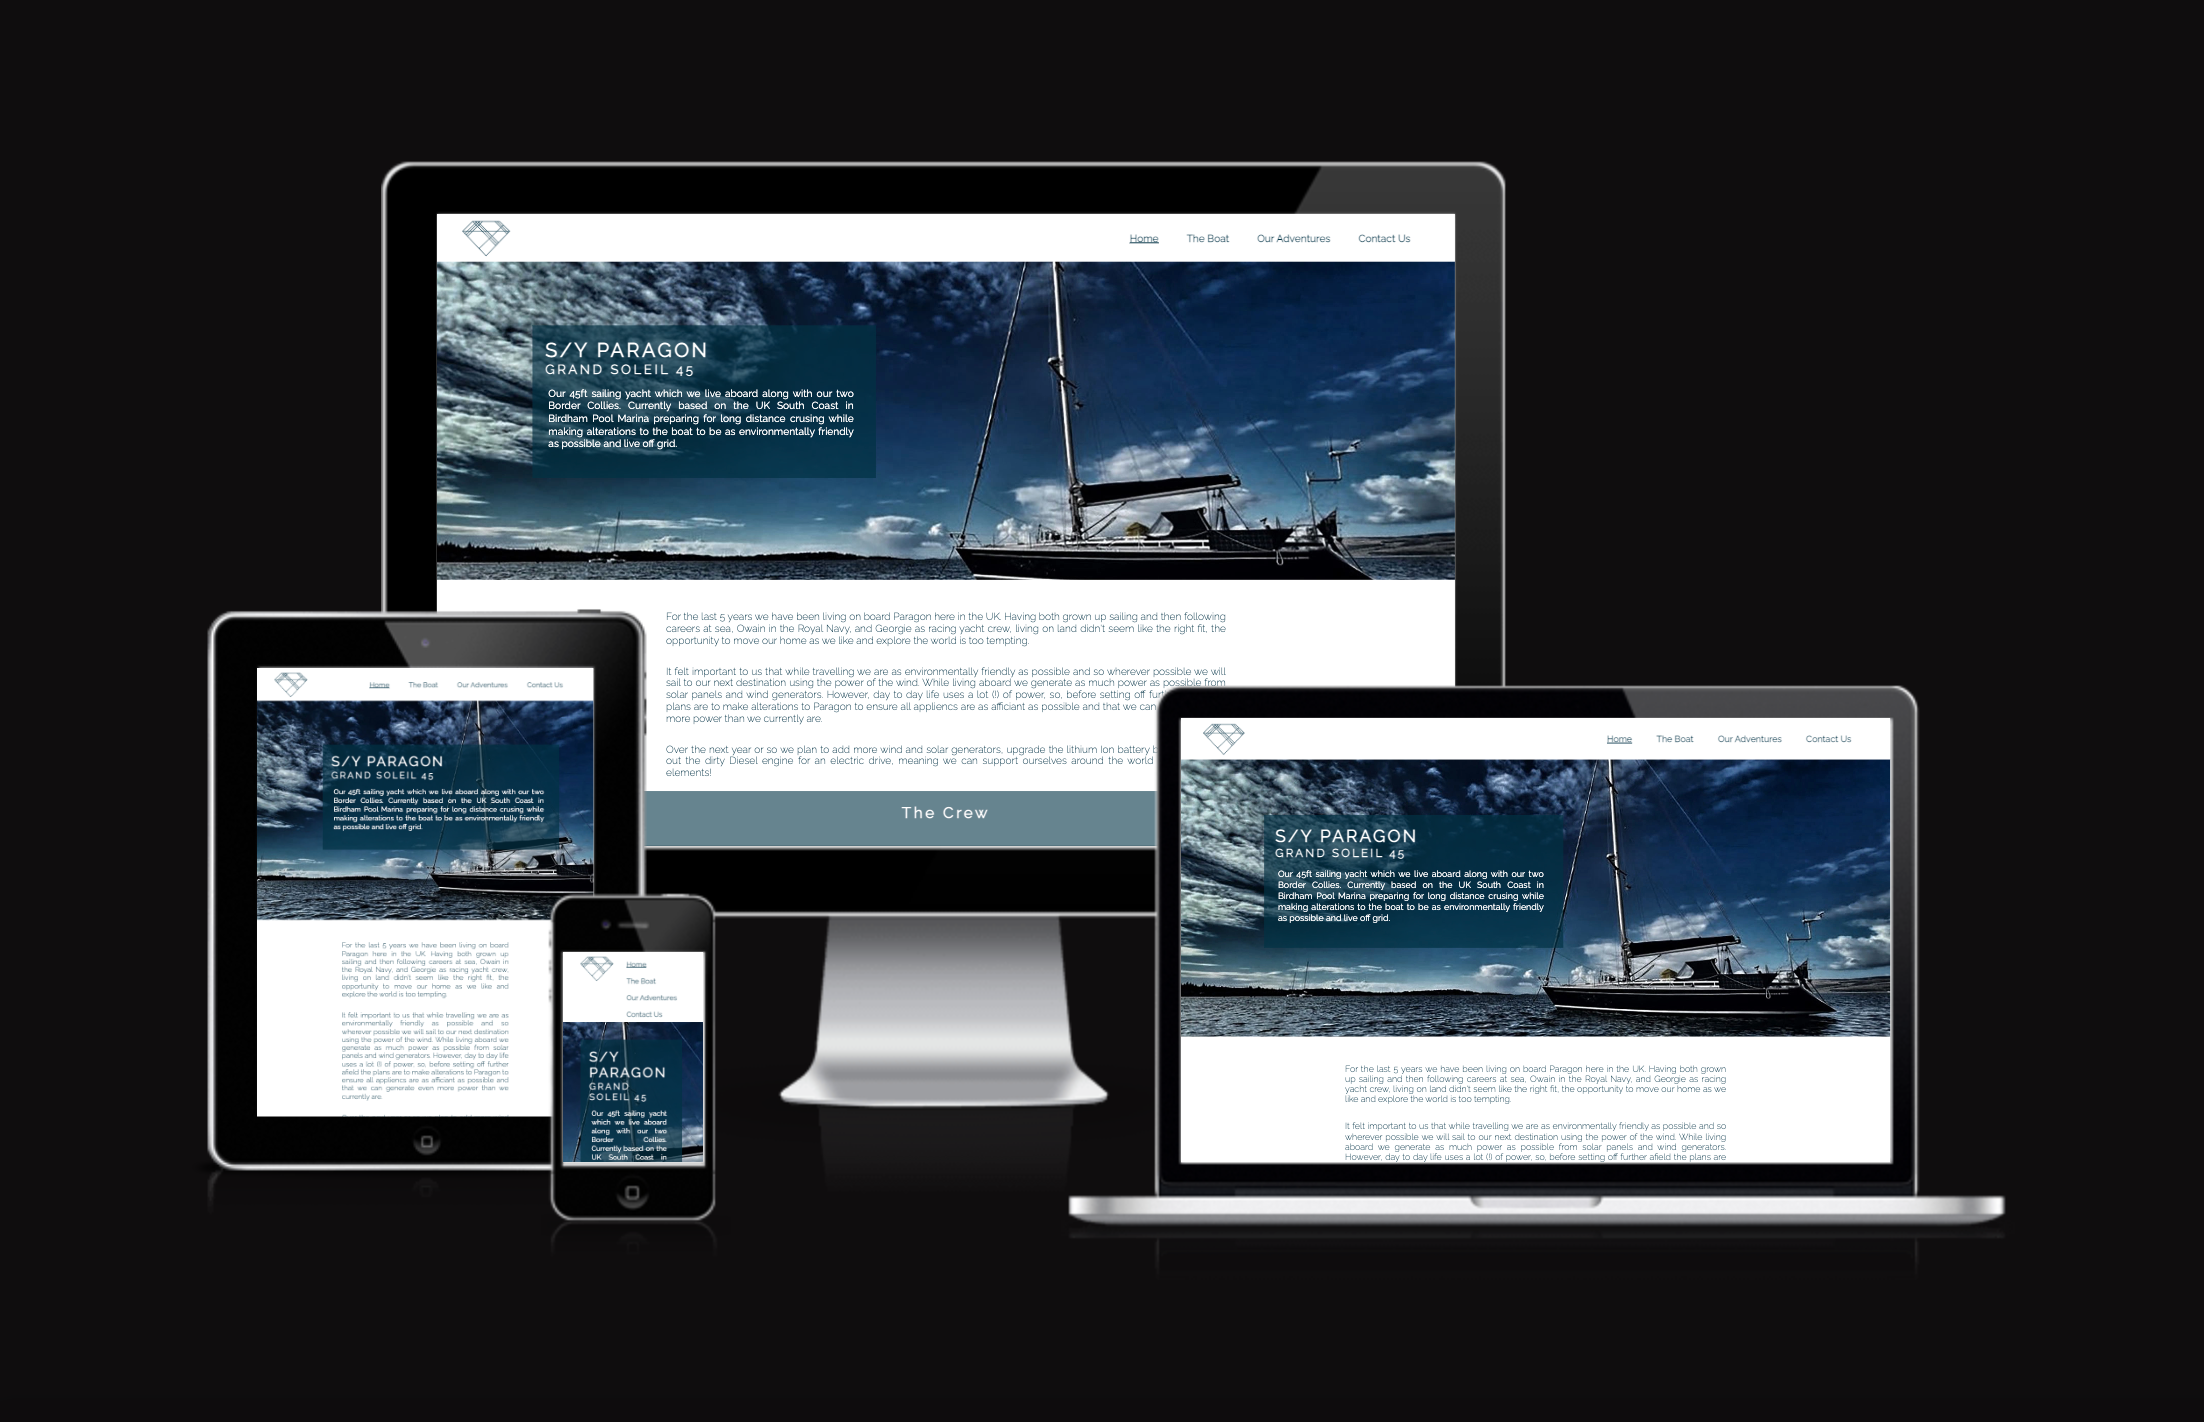
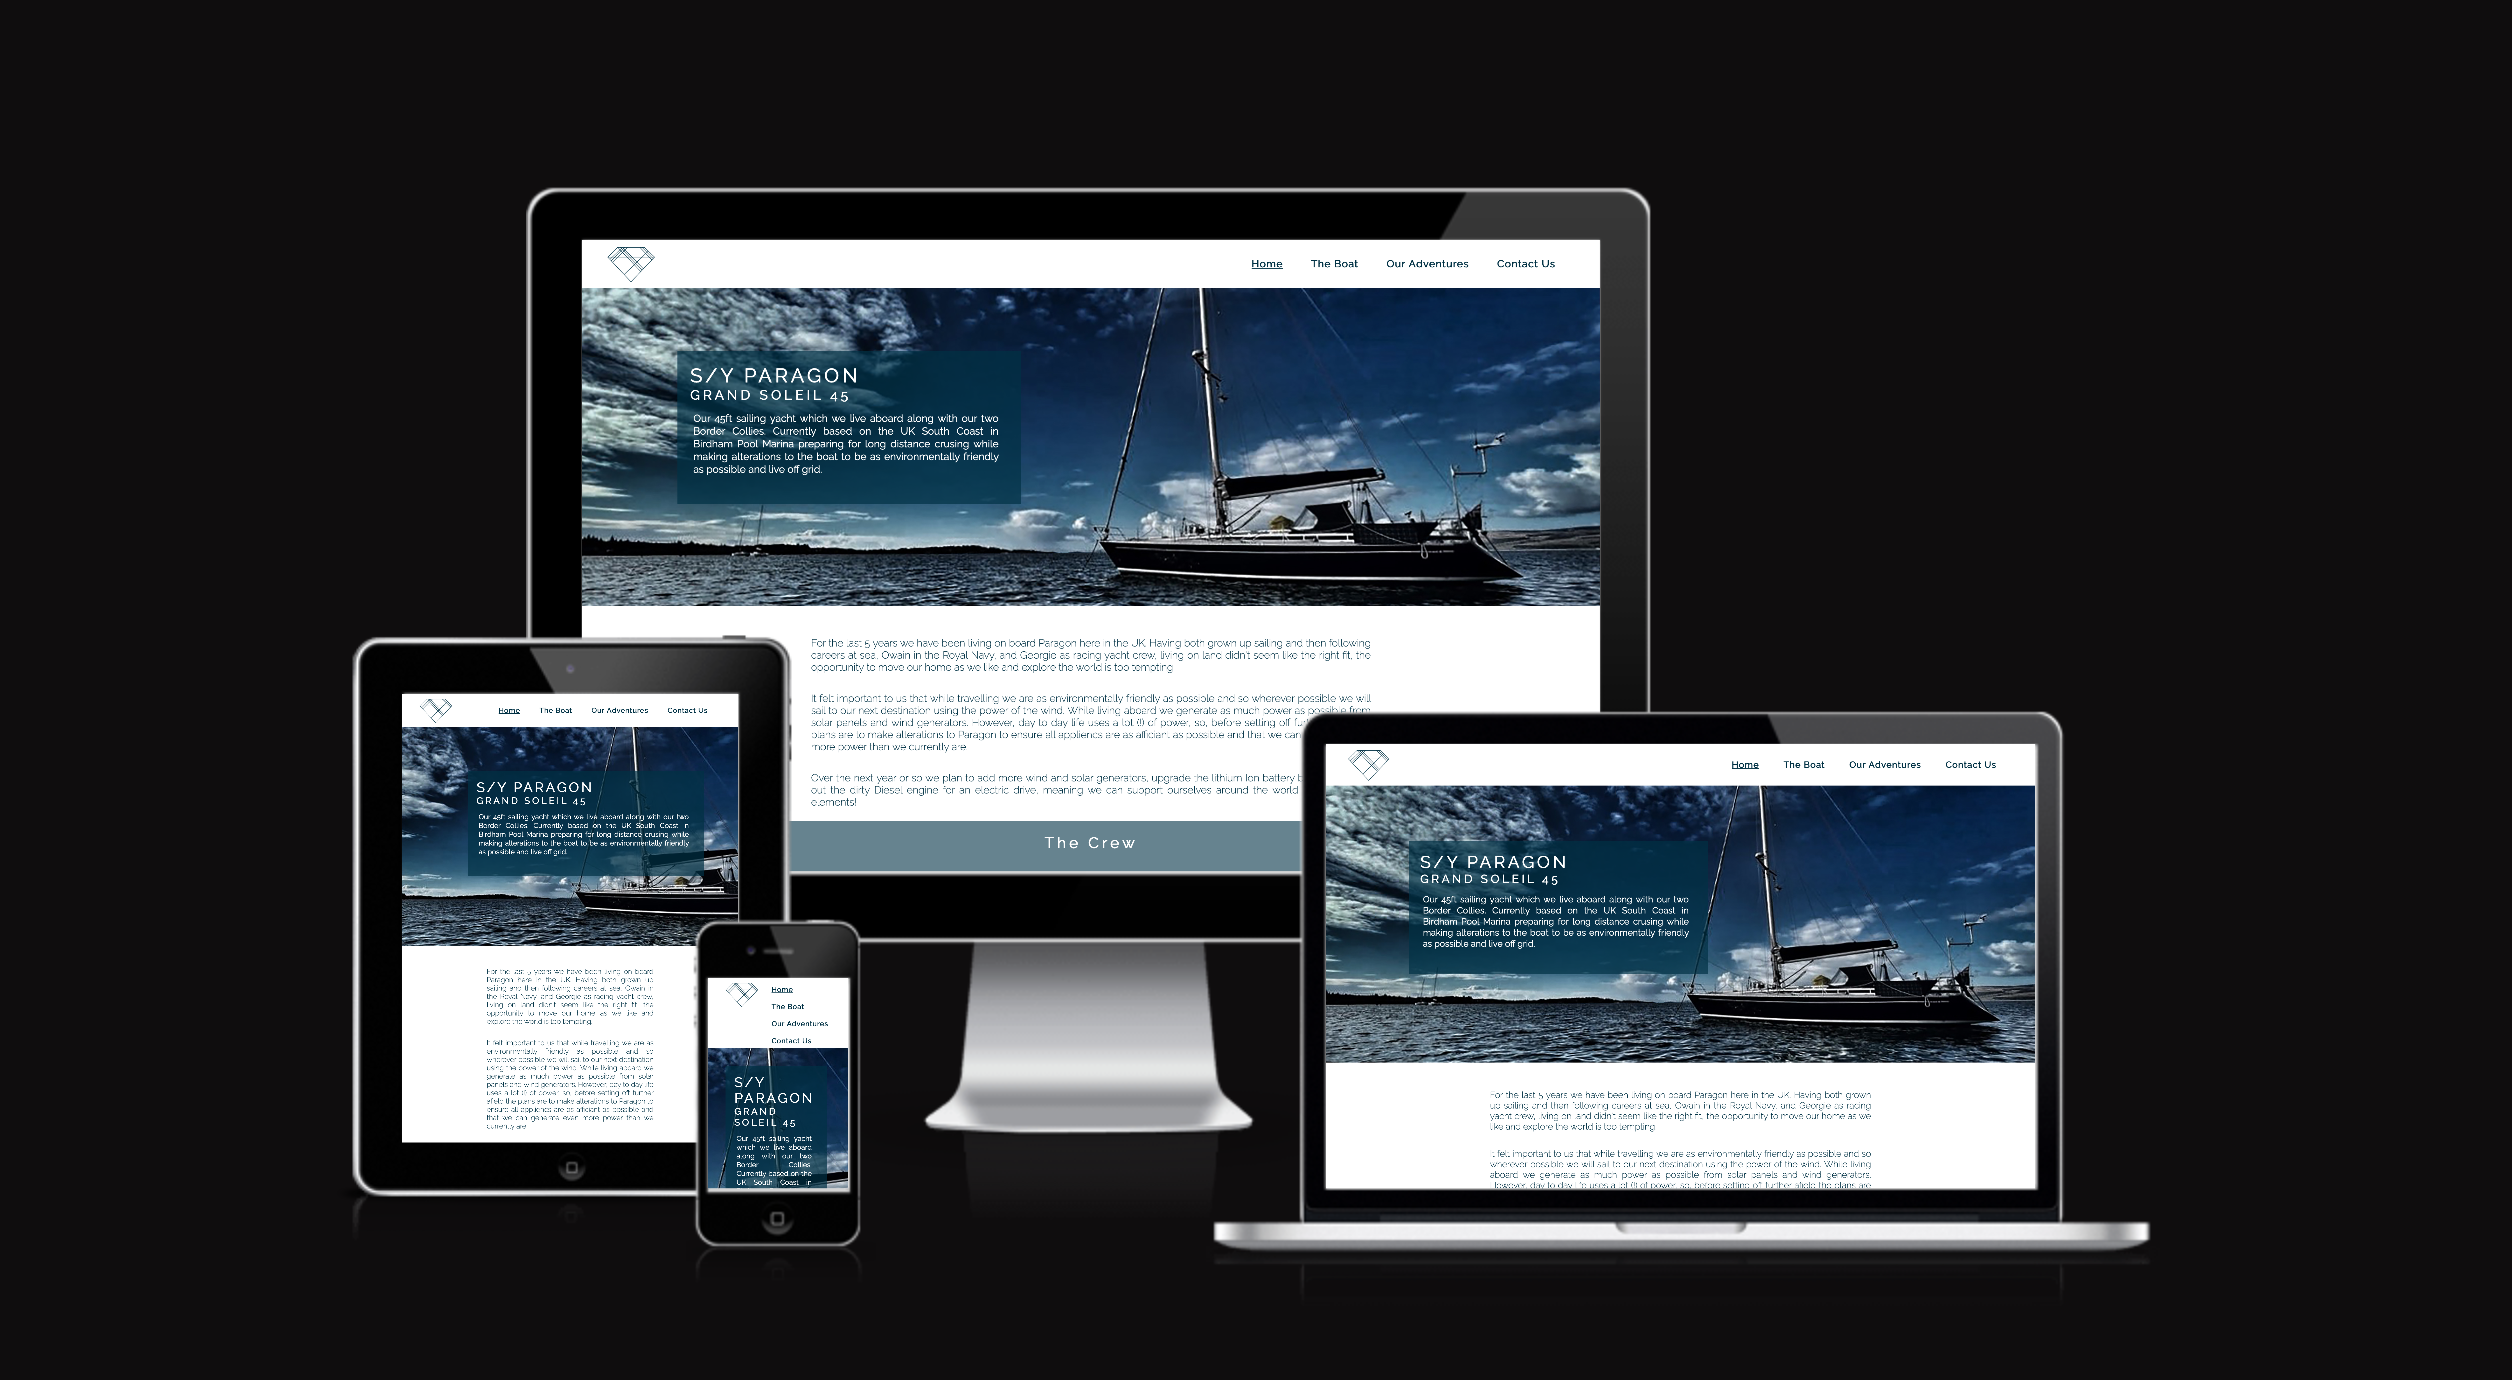
add correct mockup image for readme

diff --git a/index.html b/index.html
@@ -46,7 +46,6 @@
                 <h2>S/Y Paragon</h2>
                 <h4>Grand Soleil 45 </h4>
                 <P class="hero-text">Our 45ft sailing yacht which we live aboard along with our two Border Collies. Currently based on the UK South Coast in Birdham Pool Marina preparing  for long distance crusing while making alterations to the boat to be as environmentally friendly as possible and live off grid.</P>
-          
         </div>
         
     </section>

diff --git a/assests/css/style.css b/assests/css/style.css
@@ -68,7 +68,7 @@ li a:hover {
 #hero-image {
     width: 100%;
     height: 100%;
-    background: url(../images/hero-image.webp) no-repeat center center;
+    background: url(../images/hero-image.jpg) no-repeat center center;
     background-size: cover;
 }
 
